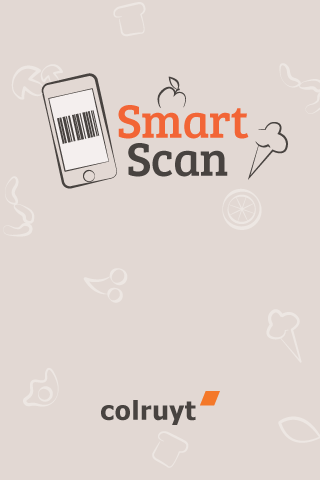
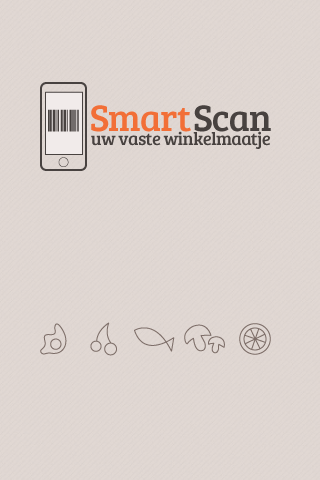
layout update

diff --git a/Resources/app.js b/Resources/app.js
@@ -1,6 +1,6 @@
 var Ti;
 
-Titanium.UI.setBackgroundImage('img/bg_stripes.png');
+Titanium.UI.setBackgroundImage('img/bg.png');
 
 //libraries
 Ti.include('smart/smart.js');

diff --git a/PHP-files/post_register.php b/PHP-files/post_register.php
@@ -1,5 +1,5 @@
     <?php  
-    $con =@ new mysqli('localhost','root','root', 'SmartscanDB'); 
+    $con =@ new mysqli('localhost','root','root', 'smartscan'); 
     if ($con->connect_error)  
     {  
         echo "Oeps, geen connectie met de databank.";  
